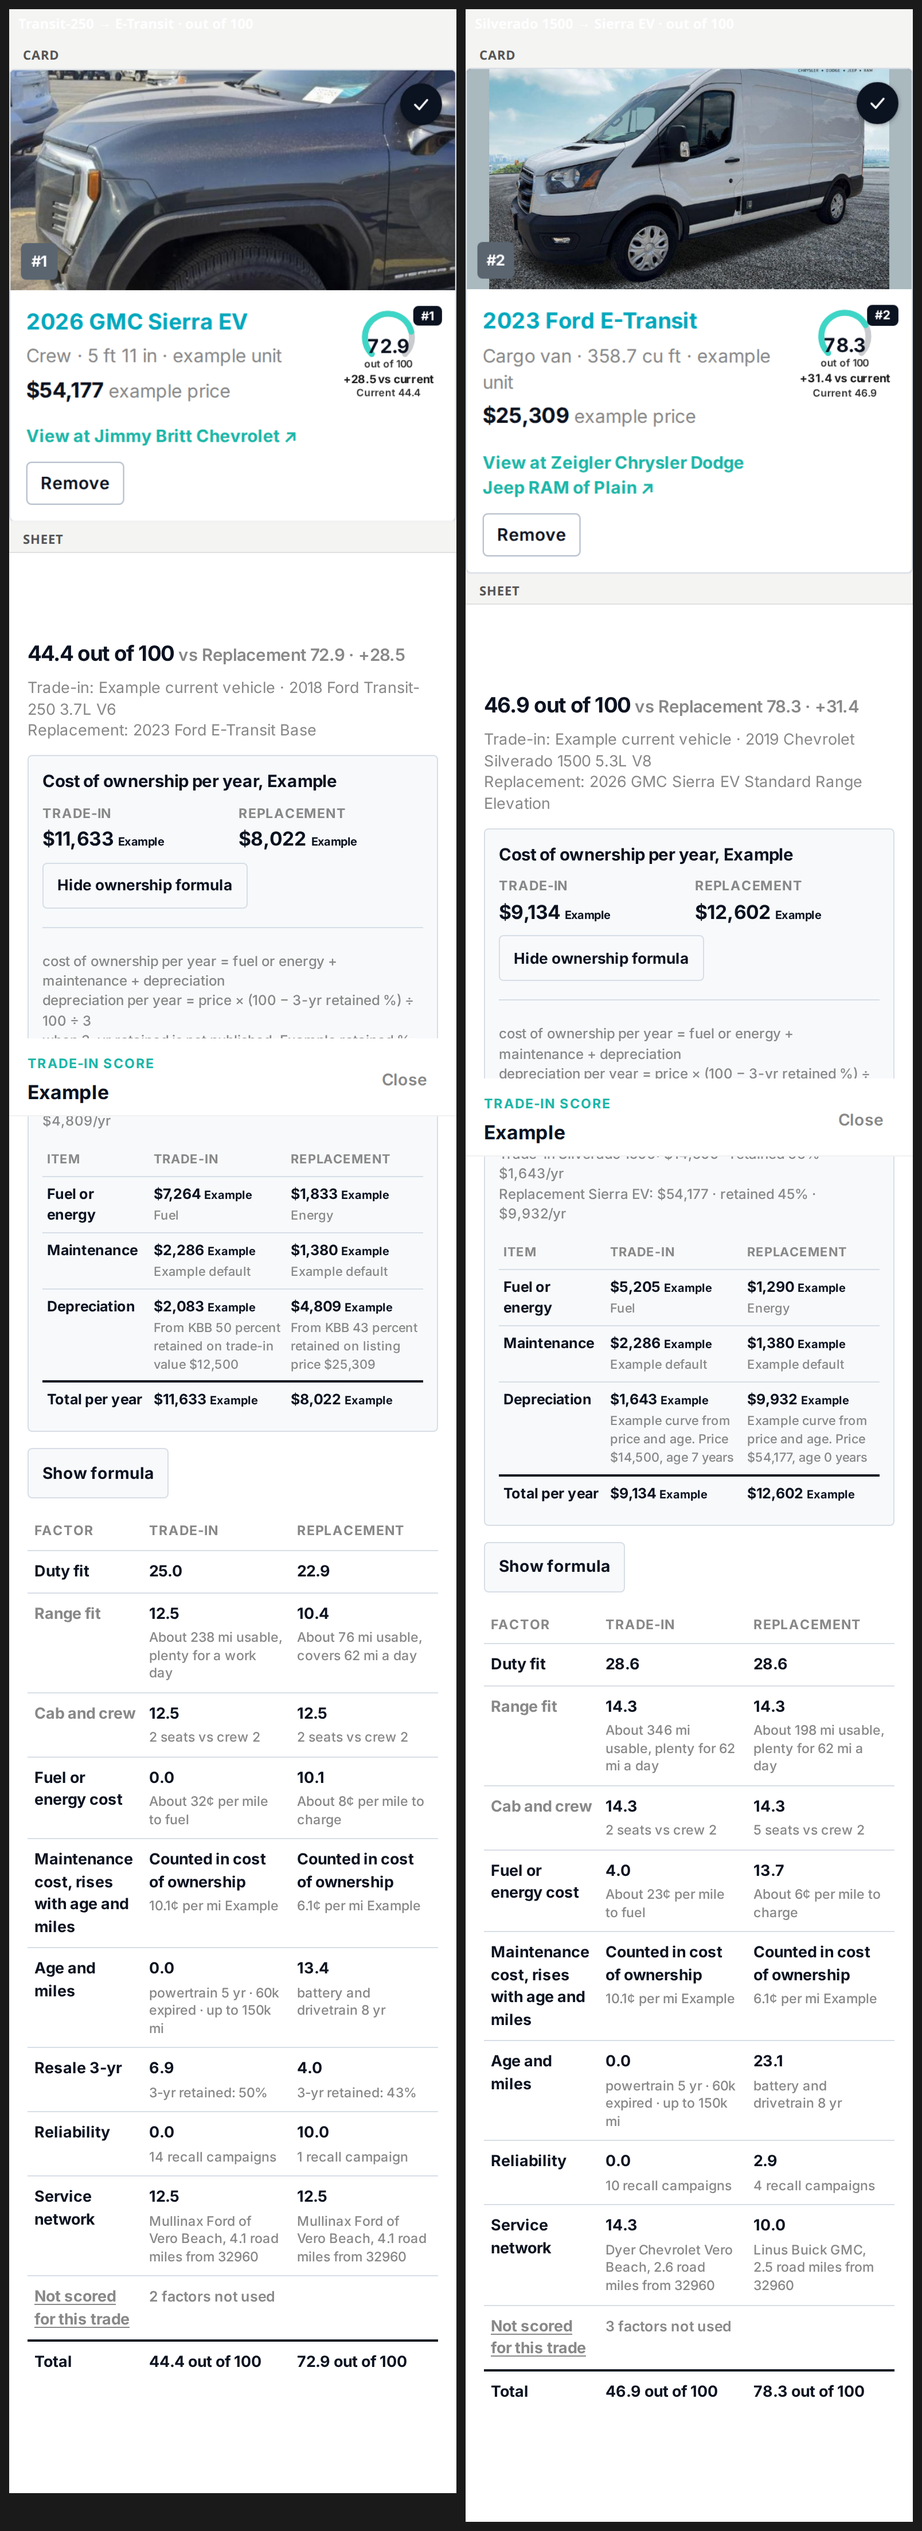
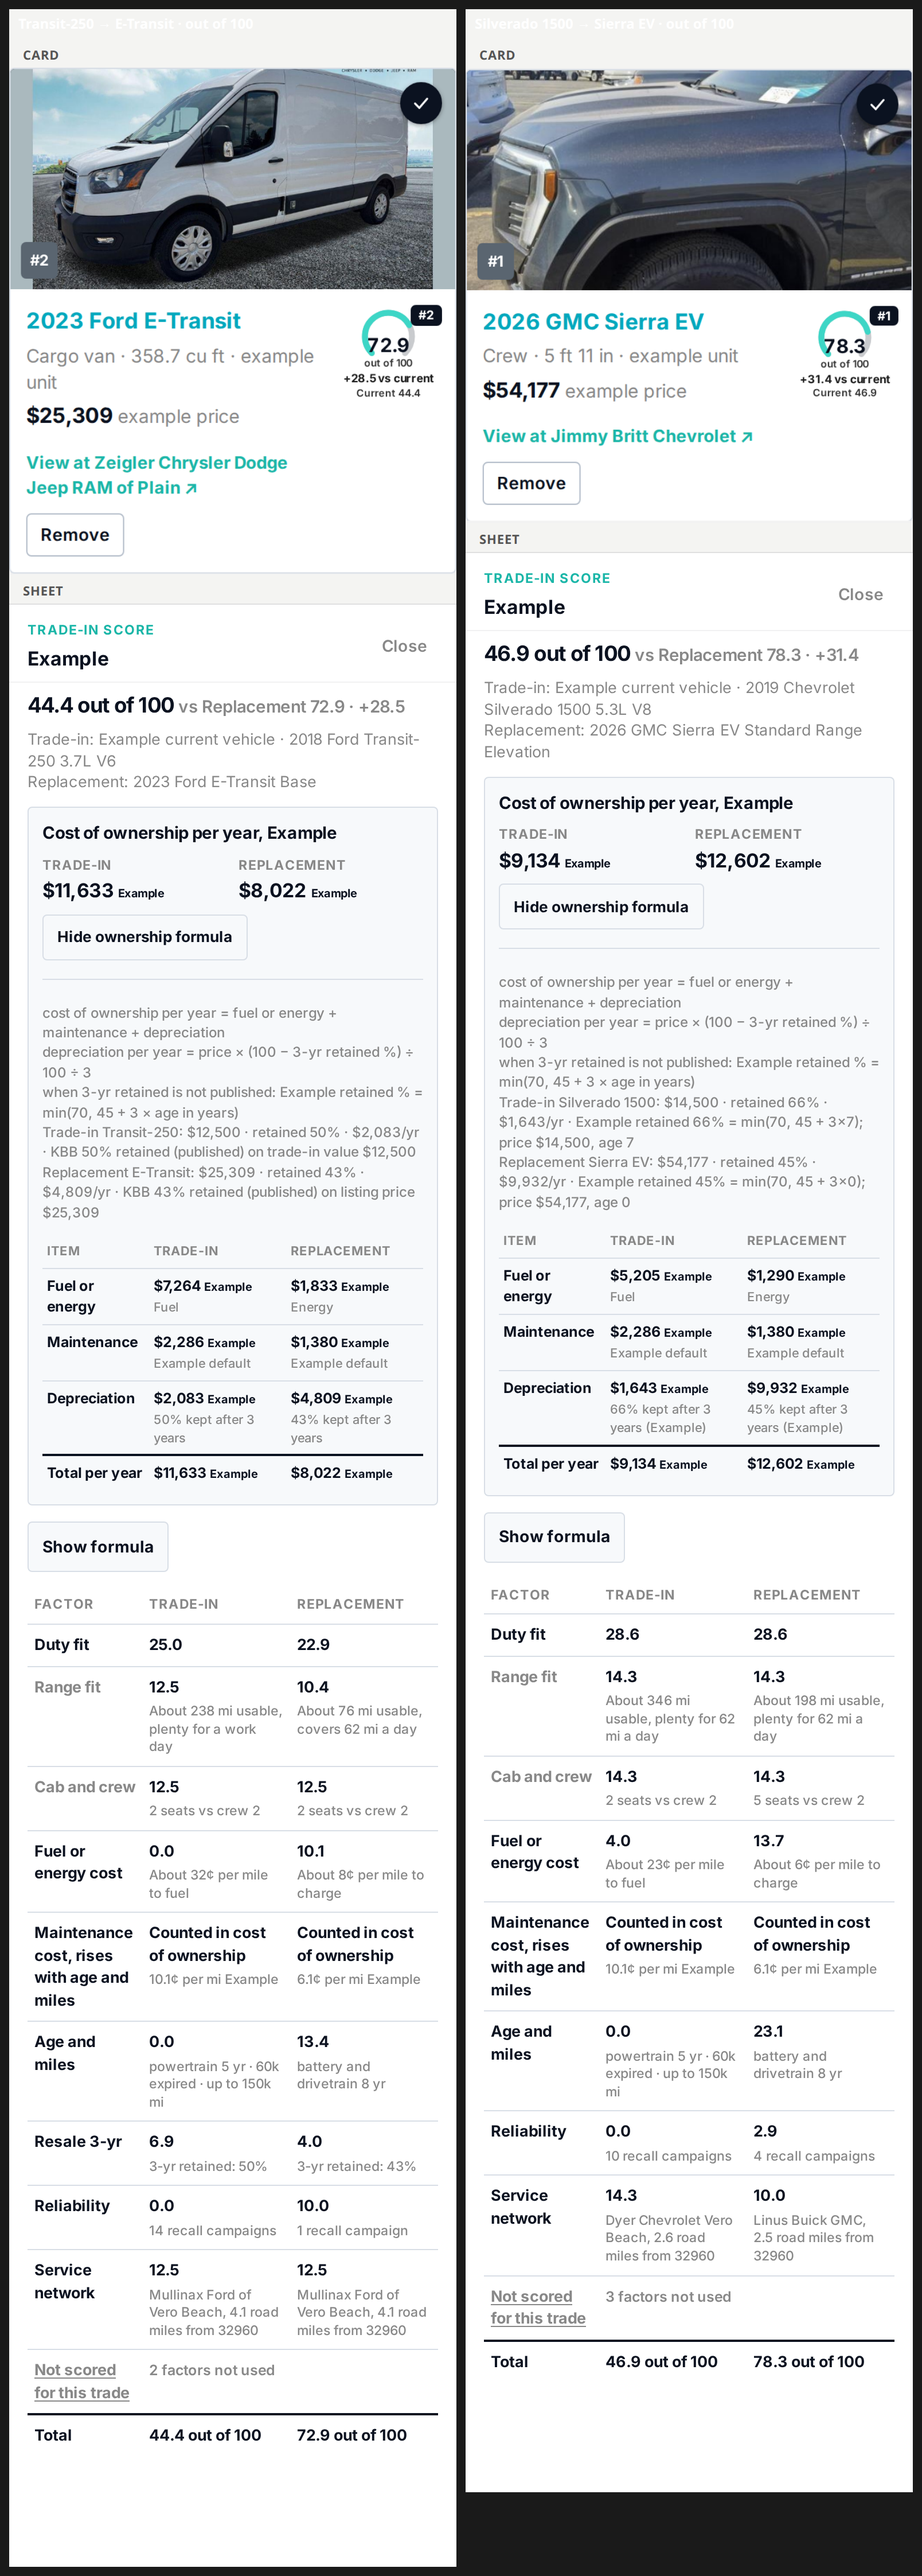
samples: fix tradein-100 card match, sticky head, dep notes
Frame assembly matched cards by badge index; live cards are rank-
sorted (Sierra #1, E-Transit #2) while badges follow trade-in rows.
Match card by unit name to sheet Replacement, unstick panel head for
tall capture, and keep KBB only in the ownership formula view.

Changed region(s): [[0.0, 0.0, 0.995, 1.0], [0.4042, 0.2484, 0.4664, 0.2795]]

diff --git a/samples/tradein-100/index.html b/samples/tradein-100/index.html
@@ -17,14 +17,14 @@
 </head>
 <body>
   <h1>Sample frames only — scores out of 100 + per-unit depreciation</h1>
-  <p>Not live. Root app unchanged (BAiypiP0). Tap an image to enlarge.</p>
+  <p>Not live. Root app unchanged (BAiypiP0). Card matched to sheet Replacement by unit name. Tap to enlarge.</p>
   <div class="grid">
     <figure>
-      <figcaption>Transit-250 → E-Transit</figcaption>
+      <figcaption>Transit-250 → E-Transit (card #2)</figcaption>
       <a href="tradein-100-sample-etransit-390.png"><img src="tradein-100-sample-etransit-390.png" alt="E-Transit sample"></a>
     </figure>
     <figure>
-      <figcaption>Silverado 1500 → Sierra EV</figcaption>
+      <figcaption>Silverado 1500 → Sierra EV (card #1)</figcaption>
       <a href="tradein-100-sample-sierra-390.png"><img src="tradein-100-sample-sierra-390.png" alt="Sierra EV sample"></a>
     </figure>
     <figure style="width:min(804px,100%)">
